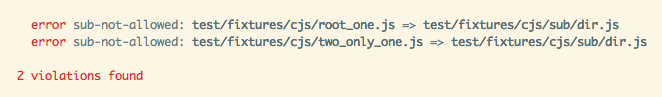
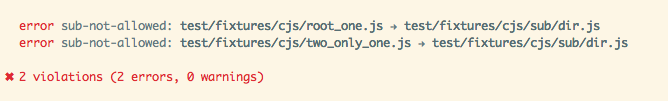
:book: updates the err output in the sample documentation

Changed region(s): [[0.0302, 0.3711, 0.997, 0.4948], [0.0302, 0.1856, 0.9366, 0.3402], [0.0, 0.7113, 0.3927, 0.8351]]

diff --git a/doc/sample-output.md b/doc/sample-output.md
@@ -38,10 +38,10 @@ she uses the `err` output type:
 ```sh
 dependency-cruise -T err -v test/fixtures
 
-    error sub-not-allowed: test/fixtures/cjs/root_one.js => test/fixtures/cjs/sub/dir.js
-    error sub-not-allowed: test/fixtures/cjs/two_only_one.js => test/fixtures/cjs/sub/dir.js
+  error sub-not-allowed: test/fixtures/cjs/root_one.js → test/fixtures/cjs/sub/dir.js
+  error sub-not-allowed: test/fixtures/cjs/two_only_one.js → test/fixtures/cjs/sub/dir.js
 
-  2 violations found
+✖ 2 violations (2 errors, 0 warnings)
 
 make: *** [dependency-cruise] Error 2
 ```
